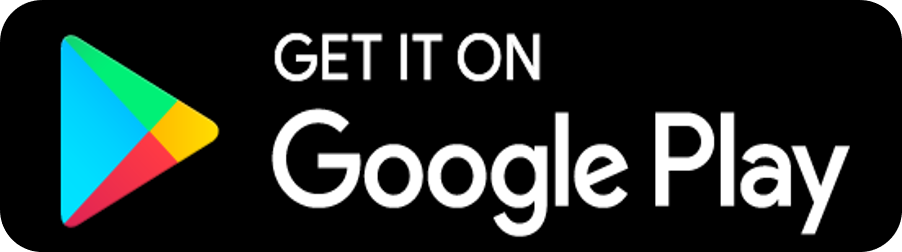
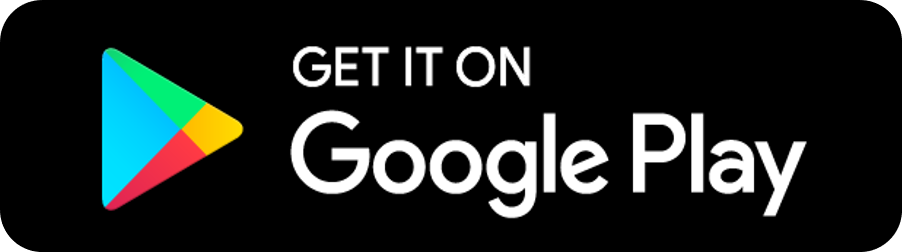
Add download badges for mobile app

Changed region(s): [[0.0621, 0.1389, 0.9623, 0.9444], [0.2794, 0.1111, 0.6208, 0.3611]]

diff --git a/src/app/theme/components/footer/footer.component.html b/src/app/theme/components/footer/footer.component.html
@@ -45,9 +45,9 @@
             <div class="col-md-3  col-sm-12">
                 <h4>Contact Us</h4>
                 <div class="text-widget">
-                    <span>12345 Little Lonsdale St, Melbourne</span> <br>
-                    Phone: <span>(123) 123-456 </span><br>
-                    E-Mail:<span> <a href="#">office@example.com</a> </span><br>
+                    <span>6B Aswan square 5th floor Mohandessin, Egypt</span> <br>
+                    Phone: <span>(+20) 155-555-1360 </span><br>
+                    E-Mail:<span> <a href="#">info@plus360.xyz</a> </span><br>
                 </div>
 
                 <ul class="social-icons margin-top-20">
@@ -64,7 +64,7 @@
         <!-- Copyright -->
         <div class="row">
             <div class="col-md-12">
-                <div class="copyrights">© {{ currentDate }} Weds360. All Rights Reserved.</div>
+                <div class="copyrights">© {{ currentDate }} Plus360. All Rights Reserved.</div>
             </div>
         </div>
 

diff --git a/src/app/theme/components/footer/footer.component.scss b/src/app/theme/components/footer/footer.component.scss
@@ -4,5 +4,6 @@
 }
 
 .badge{
-    max-width: 100px;
+    max-width: 150px;
+    cursor: pointer;
 }
